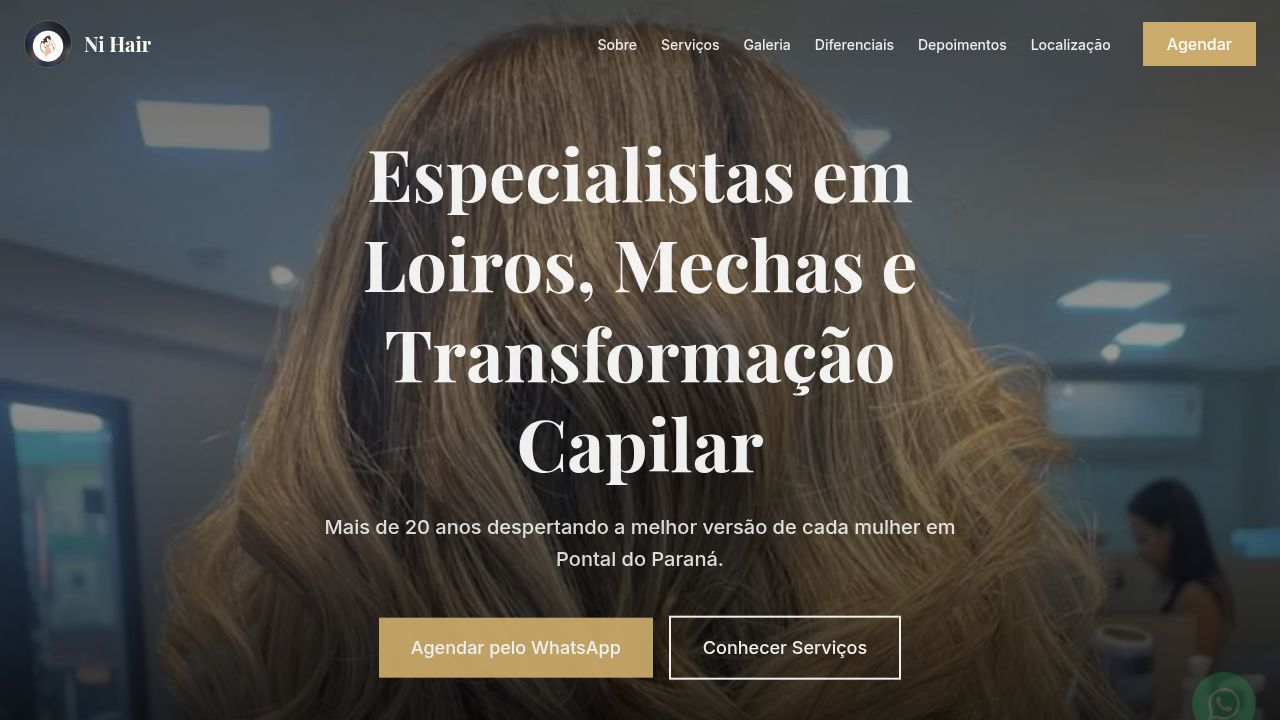
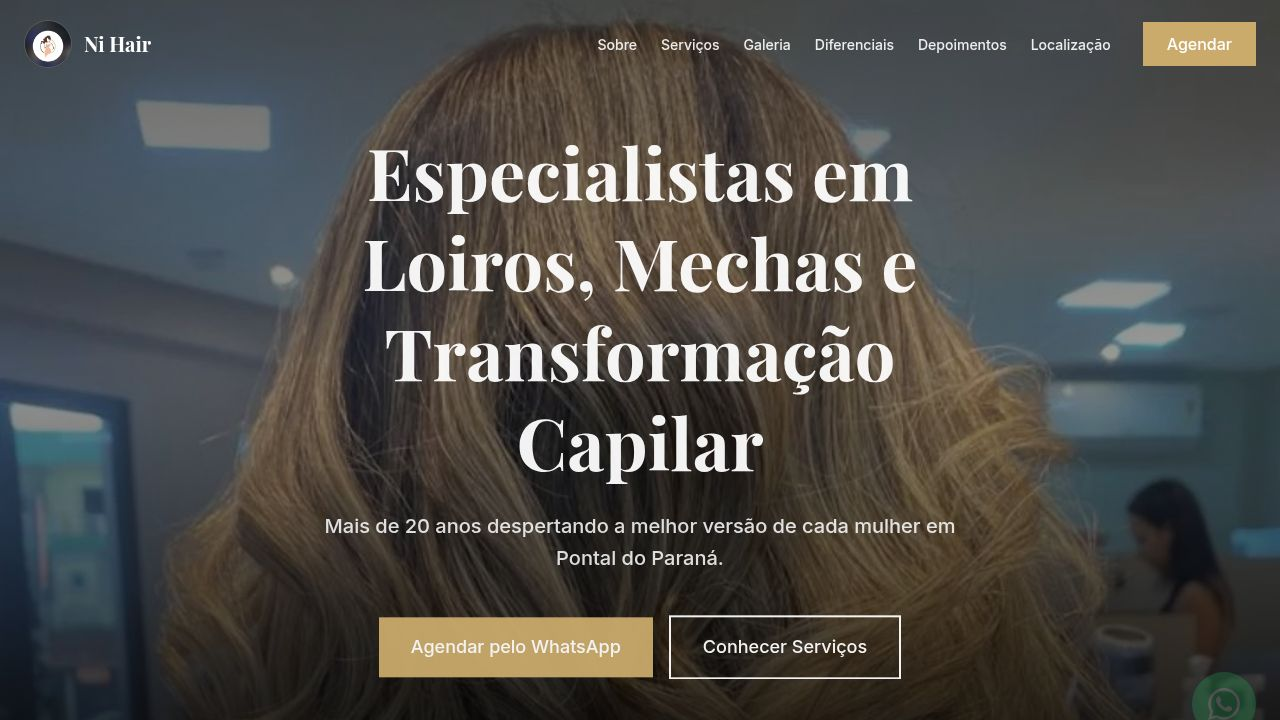
Prepare project for Vercel deployment by fixing build configuration and assets
Adjust Vite configuration to make environment variables optional, update asset paths, remove unused dependencies, and add Vercel-specific build settings.

Replit-Commit-Author: Agent
Replit-Commit-Session-Id: 916a08d1-1d68-487b-a19a-476badcd327a
Replit-Commit-Checkpoint-Type: full_checkpoint
Replit-Commit-Event-Id: 6d989093-a0a3-4857-8188-48db38a7b8f0
Replit-Commit-Screenshot-Url: https://storage.googleapis.com/screenshot-production-us-central1/130b4da8-7bf9-4ec9-93d3-457a4c2cff6e/916a08d1-1d68-487b-a19a-476badcd327a/e1na7Yn
Replit-Helium-Checkpoint-Created: true

diff --git a/artifacts/ni-hair/vite.config.ts b/artifacts/ni-hair/vite.config.ts
@@ -2,39 +2,22 @@ import { defineConfig } from "vite";
 import react from "@vitejs/plugin-react";
 import tailwindcss from "@tailwindcss/vite";
 import path from "path";
-import runtimeErrorOverlay from "@replit/vite-plugin-runtime-error-modal";
 
-const rawPort = process.env.PORT;
+const port = Number(process.env.PORT ?? 3000);
+const basePath = process.env.BASE_PATH ?? "/";
 
-if (!rawPort) {
-  throw new Error(
-    "PORT environment variable is required but was not provided.",
-  );
-}
-
-const port = Number(rawPort);
-
-if (Number.isNaN(port) || port <= 0) {
-  throw new Error(`Invalid PORT value: "${rawPort}"`);
-}
-
-const basePath = process.env.BASE_PATH;
-
-if (!basePath) {
-  throw new Error(
-    "BASE_PATH environment variable is required but was not provided.",
-  );
-}
+const isReplit =
+  process.env.REPL_ID !== undefined &&
+  process.env.NODE_ENV !== "production";
 
 export default defineConfig({
   base: basePath,
   plugins: [
     react(),
     tailwindcss(),
-    runtimeErrorOverlay(),
-    ...(process.env.NODE_ENV !== "production" &&
-    process.env.REPL_ID !== undefined
+    ...(isReplit
       ? [
+          (await import("@replit/vite-plugin-runtime-error-modal")).default(),
           await import("@replit/vite-plugin-cartographer").then((m) =>
             m.cartographer({
               root: path.resolve(import.meta.dirname, ".."),
@@ -49,13 +32,13 @@ export default defineConfig({
   resolve: {
     alias: {
       "@": path.resolve(import.meta.dirname, "src"),
-      "@assets": path.resolve(import.meta.dirname, "..", "..", "attached_assets"),
+      "@assets": path.resolve(import.meta.dirname, "src", "assets"),
     },
     dedupe: ["react", "react-dom"],
   },
   root: path.resolve(import.meta.dirname),
   build: {
-    outDir: path.resolve(import.meta.dirname, "dist/public"),
+    outDir: path.resolve(import.meta.dirname, "dist"),
     emptyOutDir: true,
   },
   server: {
@@ -64,7 +47,7 @@ export default defineConfig({
     host: "0.0.0.0",
     allowedHosts: true,
     fs: {
-      strict: true,
+      strict: false,
     },
   },
   preview: {